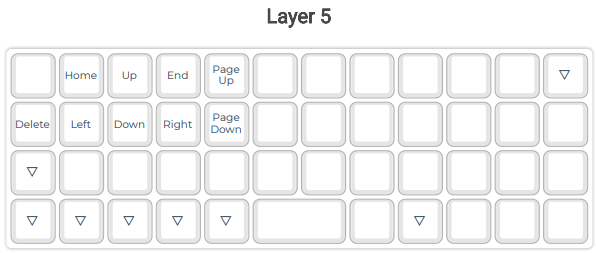
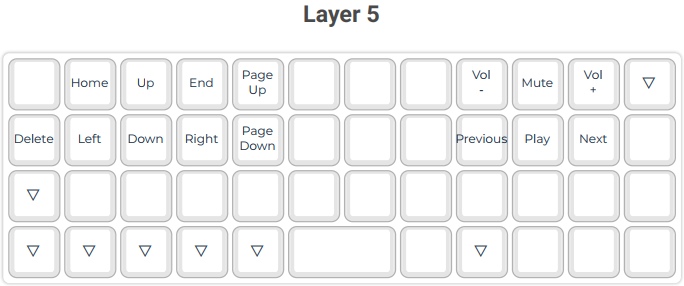
Planck add media controls

diff --git a/Planck/src/qitbit/keymap.c b/Planck/src/qitbit/keymap.c
@@ -7,11 +7,11 @@
  */
 
 const uint16_t PROGMEM keymaps[][MATRIX_ROWS][MATRIX_COLS] = {
-	[0] = LAYOUT_planck_1x2uC(KC_ESC, KC_Q, KC_W, KC_E, KC_R, KC_T, KC_Y, KC_U, KC_I, KC_O, KC_P, KC_BSPC, KC_TAB, KC_A, KC_S, KC_D, KC_F, KC_G, KC_H, KC_J, KC_K, KC_L, KC_SCLN, KC_QUOT, KC_LSFT, KC_Z, KC_X, KC_C, KC_V, KC_B, KC_N, KC_M, KC_COMM, KC_DOT, KC_SLSH, KC_ENT, KC_LCTL, KC_LGUI, KC_LALT, MO(4), LT(1,KC_DEL), KC_SPC, LT(2,KC_F2), MO(5), KC_F22, KC_NO, KC_F24),
-	[1] = LAYOUT_planck_1x2uC(KC_GRV, KC_EXLM, KC_AT, KC_HASH, KC_DLR, KC_PERC, KC_CIRC, KC_AMPR, KC_ASTR, KC_LPRN, KC_RPRN, KC_BSPC, KC_DEL, RCS(KC_TAB), KC_NO, LCTL(KC_TAB), KC_NO, KC_NO, KC_NO, KC_UNDS, KC_PLUS, KC_LCBR, KC_RCBR, KC_BSLS, KC_TRNS, KC_NO, KC_NO, KC_NO, KC_NO, KC_NO, KC_NO, KC_MINS, KC_EQL, KC_LBRC, KC_RBRC, KC_TRNS, KC_TRNS, KC_TRNS, KC_TRNS, KC_TRNS, KC_TRNS, KC_TRNS, MO(3), KC_NO, KC_NO, KC_NO, KC_NO),
-	[2] = LAYOUT_planck_1x2uC(KC_TILD, KC_NO, KC_NO, KC_NO, KC_NO, KC_NO, KC_NO, KC_NO, KC_NO, KC_NO, KC_NO, KC_TRNS, KC_NO, KC_F1, KC_F2, KC_F3, KC_F4, KC_F5, KC_F6, KC_NO, KC_NO, KC_NO, KC_NO, KC_PIPE, KC_NO, KC_F7, KC_F8, KC_F9, KC_F10, KC_F11, KC_F12, KC_NO, KC_NO, KC_NO, KC_NO, KC_TRNS, KC_TRNS, KC_TRNS, KC_TRNS, KC_TRNS, KC_NO, KC_TRNS, KC_TRNS, KC_NO, KC_NO, KC_NO, KC_NO),
-	[3] = LAYOUT_planck_1x2uC(RESET, KC_NO, KC_NO, KC_NO, KC_NO, KC_NO, KC_NO, KC_NO, KC_NO, RGB_HUD, RGB_HUI, KC_NO, KC_NO, KC_NO, KC_NO, KC_NO, KC_NO, LAG_SWP, LAG_NRM, KC_NO, KC_NO, RGB_SAD, RGB_SAI, KC_NO, KC_NO, KC_NO, KC_NO, KC_NO, KC_NO, KC_NO, KC_NO, KC_NO, KC_NO, RGB_SPD, RGB_SPI, RGB_TOG, KC_NO, KC_NO, KC_NO, KC_NO, KC_TRNS, KC_NO, KC_TRNS, RGB_RMOD, RGB_VAD, RGB_VAI, RGB_MOD),
-	[4] = LAYOUT_planck_1x2uC(KC_NO, KC_NO, KC_NO, KC_NO, KC_NO, KC_NO, KC_NO, KC_NO, KC_7, KC_8, KC_9, KC_TRNS, KC_NO, KC_NO, KC_NO, KC_NO, KC_NO, KC_NO, KC_NO, KC_NO, KC_4, KC_5, KC_6, KC_NO, KC_TRNS, KC_NO, KC_NO, KC_NO, KC_NO, KC_NO, KC_NO, KC_NO, KC_1, KC_2, KC_3, KC_NO, KC_TRNS, KC_TRNS, KC_TRNS, KC_TRNS, KC_TRNS, KC_NO, KC_NO, KC_0, KC_NO, KC_DOT, KC_ENT),
-	[5] = LAYOUT_planck_1x2uC(KC_NO, KC_HOME, KC_UP, KC_END, KC_PGUP, KC_NO, KC_NO, KC_NO, KC_NO, KC_NO, KC_NO, KC_TRNS, KC_DEL, KC_LEFT, KC_DOWN, KC_RGHT, KC_PGDN, KC_NO, KC_NO, KC_NO, KC_NO, KC_NO, KC_NO, KC_NO, KC_TRNS, KC_NO, KC_NO, KC_NO, KC_NO, KC_NO, KC_NO, KC_NO, KC_NO, KC_NO, KC_NO, KC_NO, KC_TRNS, KC_TRNS, KC_TRNS, KC_TRNS, KC_TRNS, KC_NO, KC_NO, KC_TRNS, KC_NO, KC_NO, KC_NO),
-	[6] = LAYOUT_planck_1x2uC(KC_NO, KC_NO, KC_NO, KC_NO, KC_NO, KC_NO, KC_NO, KC_NO, KC_NO, KC_NO, KC_NO, KC_NO, KC_NO, KC_NO, KC_NO, KC_NO, KC_NO, KC_NO, KC_NO, KC_NO, KC_NO, KC_NO, KC_NO, KC_NO, KC_NO, KC_NO, KC_NO, KC_NO, KC_NO, KC_NO, KC_NO, KC_NO, KC_NO, KC_NO, KC_NO, KC_NO, KC_NO, KC_NO, KC_NO, KC_NO, KC_NO, KC_NO, KC_NO, KC_NO, KC_NO, KC_NO, KC_NO)
+        [0] = LAYOUT_planck_1x2uC(KC_ESC, KC_Q, KC_W, KC_E, KC_R, KC_T, KC_Y, KC_U, KC_I, KC_O, KC_P, KC_BSPC, KC_TAB, KC_A, KC_S, KC_D, KC_F, KC_G, KC_H, KC_J, KC_K, KC_L, KC_SCLN, KC_QUOT, KC_LSFT, KC_Z, KC_X, KC_C, KC_V, KC_B, KC_N, KC_M, KC_COMM, KC_DOT, KC_SLSH, KC_ENT, KC_LCTL, KC_LGUI, KC_LALT, MO(4), LT(1,KC_DEL), KC_SPC, LT(2,KC_F2), MO(5), KC_F22, KC_NO, KC_F24),
+        [1] = LAYOUT_planck_1x2uC(KC_GRV, KC_EXLM, KC_AT, KC_HASH, KC_DLR, KC_PERC, KC_CIRC, KC_AMPR, KC_ASTR, KC_LPRN, KC_RPRN, KC_BSPC, KC_DEL, RCS(KC_TAB), KC_NO, LCTL(KC_TAB), KC_NO, KC_NO, KC_NO, KC_UNDS, KC_PLUS, KC_LCBR, KC_RCBR, KC_BSLS, KC_TRNS, KC_NO, KC_NO, KC_NO, KC_NO, KC_NO, KC_NO, KC_MINS, KC_EQL, KC_LBRC, KC_RBRC, KC_TRNS, KC_TRNS, KC_TRNS, KC_TRNS, KC_TRNS, KC_TRNS, KC_TRNS, MO(3), KC_NO, KC_NO, KC_NO, KC_NO),
+        [2] = LAYOUT_planck_1x2uC(KC_TILD, KC_NO, KC_NO, KC_NO, KC_NO, KC_NO, KC_NO, KC_NO, KC_NO, KC_NO, KC_NO, KC_TRNS, KC_NO, KC_F1, KC_F2, KC_F3, KC_F4, KC_F5, KC_F6, KC_NO, KC_NO, KC_NO, KC_NO, KC_PIPE, KC_NO, KC_F7, KC_F8, KC_F9, KC_F10, KC_F11, KC_F12, KC_NO, KC_NO, KC_NO, KC_NO, KC_TRNS, KC_TRNS, KC_TRNS, KC_TRNS, KC_TRNS, KC_NO, KC_TRNS, KC_TRNS, KC_NO, KC_NO, KC_NO, KC_NO),
+        [3] = LAYOUT_planck_1x2uC(RESET, KC_NO, KC_NO, KC_NO, KC_NO, KC_NO, KC_NO, KC_NO, KC_NO, RGB_HUD, RGB_HUI, KC_NO, KC_NO, KC_NO, KC_NO, KC_NO, KC_NO, LAG_SWP, LAG_NRM, KC_NO, KC_NO, RGB_SAD, RGB_SAI, KC_NO, KC_NO, KC_NO, KC_NO, KC_NO, KC_NO, KC_NO, KC_NO, KC_NO, KC_NO, RGB_SPD, RGB_SPI, RGB_TOG, KC_NO, KC_NO, KC_NO, KC_NO, KC_TRNS, KC_NO, KC_TRNS, RGB_RMOD, RGB_VAD, RGB_VAI, RGB_MOD),
+        [4] = LAYOUT_planck_1x2uC(KC_NO, KC_NO, KC_NO, KC_NO, KC_NO, KC_NO, KC_NO, KC_NO, KC_7, KC_8, KC_9, KC_TRNS, KC_NO, KC_NO, KC_NO, KC_NO, KC_NO, KC_NO, KC_NO, KC_NO, KC_4, KC_5, KC_6, KC_NO, KC_TRNS, KC_NO, KC_NO, KC_NO, KC_NO, KC_NO, KC_NO, KC_NO, KC_1, KC_2, KC_3, KC_NO, KC_TRNS, KC_TRNS, KC_TRNS, KC_TRNS, KC_TRNS, KC_NO, KC_NO, KC_0, KC_NO, KC_DOT, KC_ENT),
+        [5] = LAYOUT_planck_1x2uC(KC_NO, KC_HOME, KC_UP, KC_END, KC_PGUP, KC_NO, KC_NO, KC_NO, KC_VOLD, KC_MUTE, KC_VOLU, KC_TRNS, KC_DEL, KC_LEFT, KC_DOWN, KC_RGHT, KC_PGDN, KC_NO, KC_NO, KC_NO, KC_MPRV, KC_MPLY, KC_MNXT, KC_NO, KC_TRNS, KC_NO, KC_NO, KC_NO, KC_NO, KC_NO, KC_NO, KC_NO, KC_NO, KC_NO, KC_NO, KC_NO, KC_TRNS, KC_TRNS, KC_TRNS, KC_TRNS, KC_TRNS, KC_NO, KC_NO, KC_TRNS, KC_NO, KC_NO, KC_NO),
+        [6] = LAYOUT_planck_1x2uC(KC_NO, KC_NO, KC_NO, KC_NO, KC_NO, KC_NO, KC_NO, KC_NO, KC_NO, KC_NO, KC_NO, KC_NO, KC_NO, KC_NO, KC_NO, KC_NO, KC_NO, KC_NO, KC_NO, KC_NO, KC_NO, KC_NO, KC_NO, KC_NO, KC_NO, KC_NO, KC_NO, KC_NO, KC_NO, KC_NO, KC_NO, KC_NO, KC_NO, KC_NO, KC_NO, KC_NO, KC_NO, KC_NO, KC_NO, KC_NO, KC_NO, KC_NO, KC_NO, KC_NO, KC_NO, KC_NO, KC_NO)
 };
